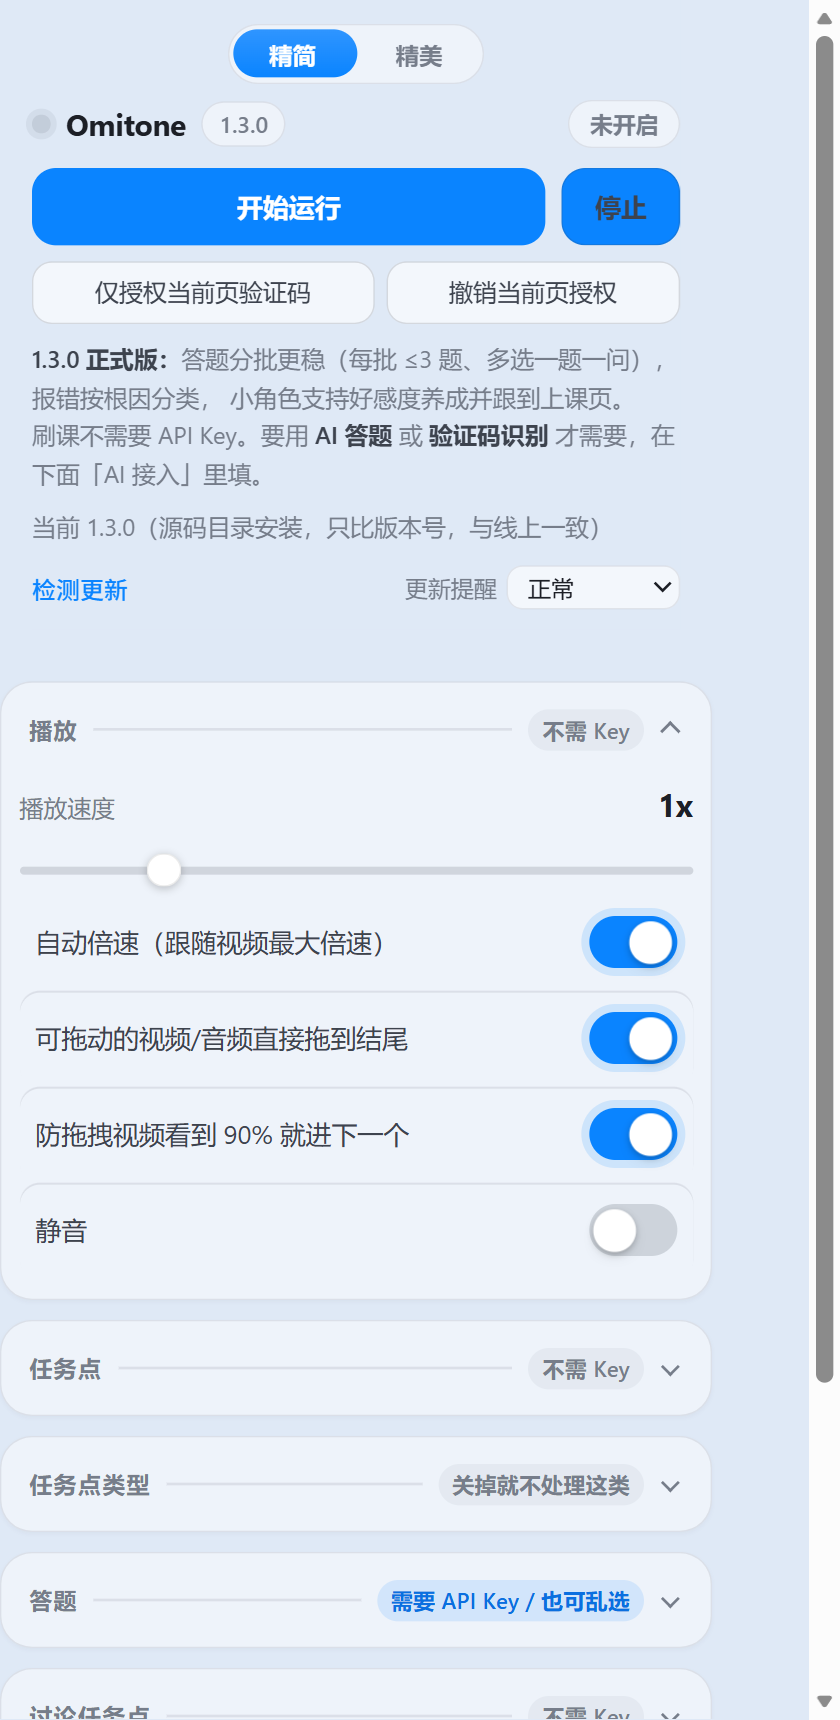
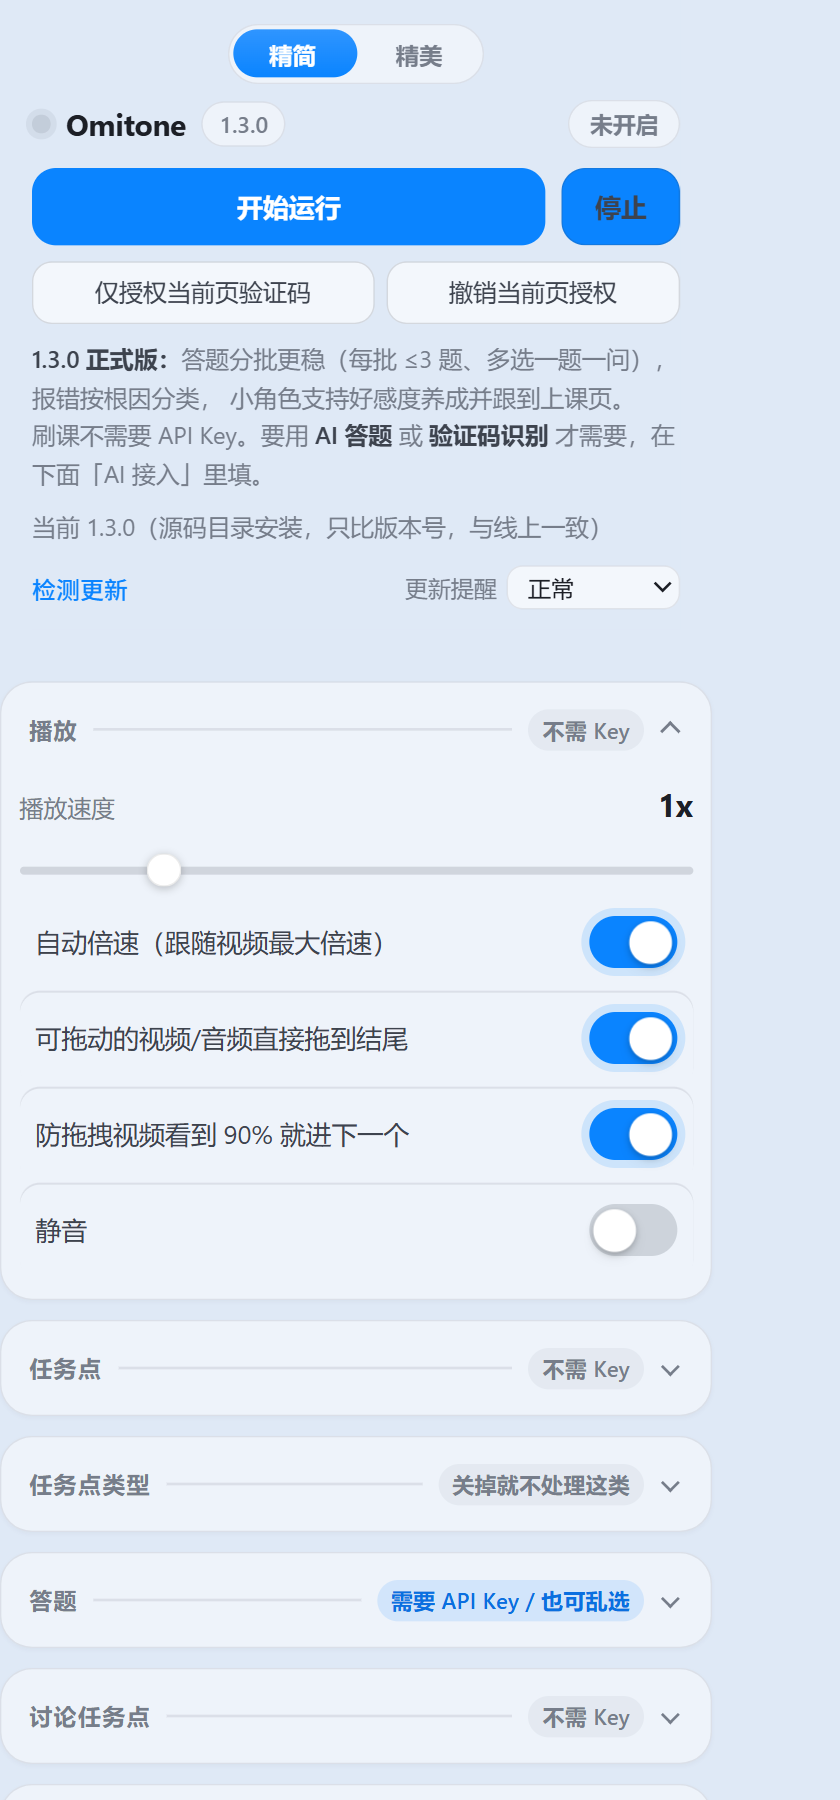
重拍门面截图并软化README首屏

diff --git a/README.md b/README.md
@@ -14,10 +14,12 @@
 **免费 · 公益 · 本地运行 · AI 由你自己接入**
 
 > **1.3.0 正式版（2026-11-01 发布）。** 这版对使用者意味着三件事：
-> **① 答题更稳** —— 每次最多问 3 题、多选先本地后一题一问，宁慢勿废，不再一批退化白花一整批的钱；
-> **② 报错说人话** —— 【账户余额不足】/【API Key 无效】/【触发限流】直接告诉你怎么做，欠费不再伪装成"连接失败"；
-> **③ 小角色养成** —— 好感度 6 级成长，还跟到学习页右下角陪你刷课。
-> 另：适配 mooc2 作业页与 PDF.js 文档、字体映射表过期自动拦卷止损。
+> **① 答题更稳** —— 一次只问 3 题、多选题一题一问，宁可慢一点，也不让一次请求白花钱；
+> **② 报错说人话** —— 余额不足、Key 填错、触发限流，都会直接告诉你是哪件事、该怎么办，
+> 欠费不再假装成"连接失败"；
+> **③ 小角色养成** —— 好感度 6 级成长，摸摸头会开心，还跟到学习页右下角陪你刷课。
+> 另：学习通的新版作业页和 PDF 文档也能认了；遇到认不出的卷子会自动停下提醒你，
+> 不会拿不准的答案硬填。
 > <details><summary>技术细节与验证基线（点开）</summary>
 > 题目选择器单一真源 + 防漂移守卫 · 暴力测试与前端混沌猴进沙盒 ·
 > `npm test` 全绿（自检 22 + 基准 + 集成 144 + worker 100）·
@@ -40,16 +42,18 @@
 <sub>里面每个要动手的地方都拆成了四问 —— **看到什么 → 点哪里 → 怎样才算对 → 不对怎么办**。
 其中「怎样才算对」是专门给你这种"不知道屏幕上这算不算正常"的情况写的。</sub>
 
-<img src="docs/images/popup.png" alt="设置弹窗（真实截图）" width="380">
-
-<sub>设置弹窗长这样 —— 顶部是<strong>版本号与运行状态</strong>，下面按「播放 / 任务点 / 答题 …」分组，
-用不到的直接折叠，它还会记住你折了哪些。</sub>
-
-<img src="docs/images/popup-fancy.png" alt="精美模式：小角色与好感度养成（真实截图）" width="380">
-
-<sub>切到<b>「精美」</b>档会多一个小角色：摸摸头、换装换表情，还有<strong>好感度养成</strong>
-（右上的「初识」就是等级铭牌）—— 刷课时她也会跟到学习页右下角陪你。
-纯装饰，不影响刷课。</sub>
+<table>
+  <tr>
+    <td align="center"><img src="docs/images/popup.png" alt="设置弹窗（真实截图）" width="380"></td>
+    <td align="center"><img src="docs/images/popup-fancy.png" alt="精美模式：小角色与好感度养成（真实截图）" width="380"></td>
+  </tr>
+  <tr>
+    <td><sub><strong>默认的「精简」档</strong> —— 顶部是版本号与运行状态，下面按「播放 / 任务点 / 答题 …」
+    分组，用不到的直接折叠，它还会记住你折了哪些。</sub></td>
+    <td><sub>切到<strong>「精美」</strong>档会多一个小角色：摸摸头、换装换表情，还有<strong>好感度养成</strong>
+    （她脚边的「初识」就是等级铭牌）—— 刷课时她也会跟到学习页右下角陪你。纯装饰，不影响刷课。</sub></td>
+  </tr>
+</table>
 
 > 装不会？往下看 [**三步装好**](#三步装好不懂-github-也能做) —— 按"从没用过 GitHub"写的。
 > 说明书就在本仓库里：在线版看 [**在线说明书**](https://tyt0807.github.io/Omitone/docs/manual.html)，
@@ -57,35 +61,12 @@
 >
 > ⚠ **用途限定见下面第 4 条**：拿它去考试、代刷计入考核的作业，那就是作弊，后果自负。
 
-> **1.3.0**：答题链路按"宁慢勿废"重做 —— **每次请求最多 3 题**（难题多的批会整批退化，
-> 一批废就是一整批的钱白花）、**多选题先本地作答，交回模型时一题一问**；
-> **报错按根因分类**（【账户余额不足】/【API Key 无效】/【触发限流】/【连接不上服务商】，
-> 弹窗与日志直接说人话，不再把欠费叫"连接失败"）；**小角色好感度养成**
-> （摸头/陪刷涨好感、6 级成长）并跟到**上课页右下角**；**题目选择器单一真源 +
-> 防漂移守卫**，适配 mooc2 新版作业页与 PDF.js 文档；字体映射表过期会自动发现
-> 并拦卷止损。验证：集成 144 + 真实 Edge 65 场景 / 610 项 + 暴力测试全绿。
-> **装过 1.2.9 的**：重新下载 `omitone.zip` 覆盖即可，设置和密钥都沿用。
-> **1.2.9**：修掉一个会让刷课**直接停住**的问题 —— 验证码认出来了、码也填对了，
-> 但页面停在验证码窗口上不下去，而且日志里什么错都不报（"提交"那一下没生效）。
-> 现在会**逐个试六种提交方式**（按钮 / 表单 / 回车 / 二次确认…），每种都回读结果，
-> 哪种管用写进日志；万一全都不行，会把当时页面上所有能点的东西打出来，方便定位。
-> 外观也整块换成**磨砂玻璃**：半透明顶栏、卡片分组、iOS 风格开关，
-> 外加打开与展开的动效（都只动透明度/位移，不为好看换来卡顿）。
-> **本轮补充（仍是 1.2.9，下载包已重新打包）**：小角色新增转圈、蹦一下、摇头、鞠躬、探头、晕乎、
-> 打盹、欢呼、吓一跳、思考、哼歌 **11 种动作**，立绘册里点着看；**88 张立绘**（1.2.9 之后新增 49 张），
-> 右键角色或点工具条「册」可以一次挑完（44 套服装 / 21 表情 / 24 姿势）。
-> 手动点动作不用等它闲逛结束，省资源模式会及时收敛动效，小屏窗口也更好操作。
-> 另外收紧了**验证码页的权限**：只有当前这一页确实是验证码页、并且是**从学习通页面打开**的窗口，
-> 才会自动注入；授权绑定该网址、**10 分钟自动失效**，换到别的网站一律不注入、也拿不到 API Key。
-> **装过 1.2.9 的**：重新下载 `omitone.zip` 覆盖即可，设置和密钥都沿用，不用卸载重装。
-> **上一轮（1.2.8）**：修「明明还有任务点、插件却没做」那一整类（跳过题目卡住、交完卷停住、
-> 一页多讨论只发一部分…），加了检测更新与折叠记忆，默认模型换成 DeepSeek V4.1 Flash。
-> [完整说明 →](https://github.com/TYT0807/Omitone/releases/latest)
-> **1.2.7 修复**：API Key 从配置文件里**整段复制**（带引号 / 带 `Bearer `）时一直报 401 ·
-> 偶尔一题拿不到答案、白花一次请求。
-> **1.2.5 新增**：**音频**也能拖到结尾（与视频同一套逻辑）。
-> **1.2.4 修复**：讨论任务**新开的窗口**里插件不自动跑。
-> [完整变更记录 →](CHANGELOG.md)
+> **更早的版本改了什么？** 上一版（1.2.9）修掉了验证码填完却停在原页不往下走的问题，
+> 外观整块换成磨砂玻璃，小角色一口气加了 11 种动作、88 张立绘；再往前（1.2.8）修掉
+> 「明明还有任务点、插件却没做」那一整类。每一版的完整说明见
+> [Release 页](https://github.com/TYT0807/Omitone/releases/latest) 与 [CHANGELOG](CHANGELOG.md)。
+>
+> **从旧版升级**：重新下载 `omitone.zip` 覆盖即可，设置和密钥都沿用，不用卸载重装。
 
 > **版本状态：1.3.0 正式版（2026-11-01 发布）。**
 > 刷课与答题该有的能力都齐了，后续主要是修 bug、跟随平台改版做适配；
